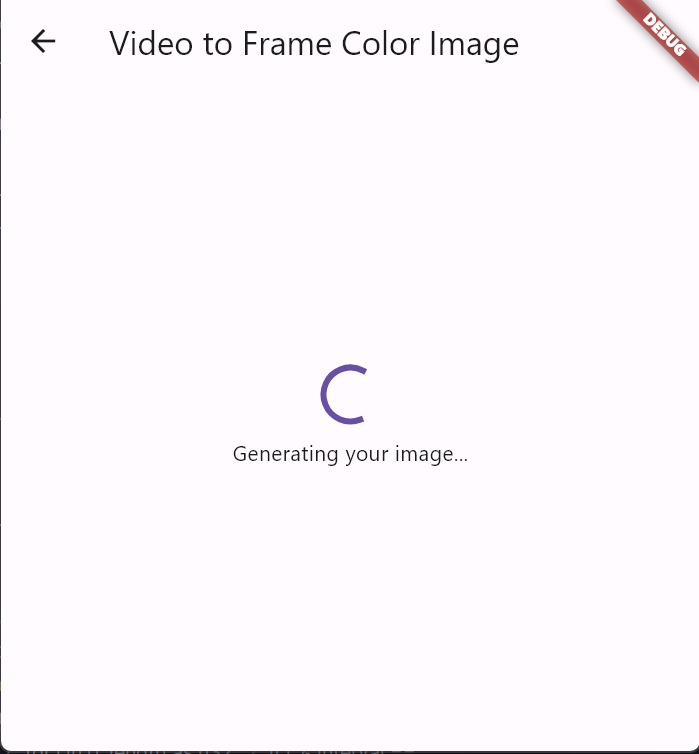
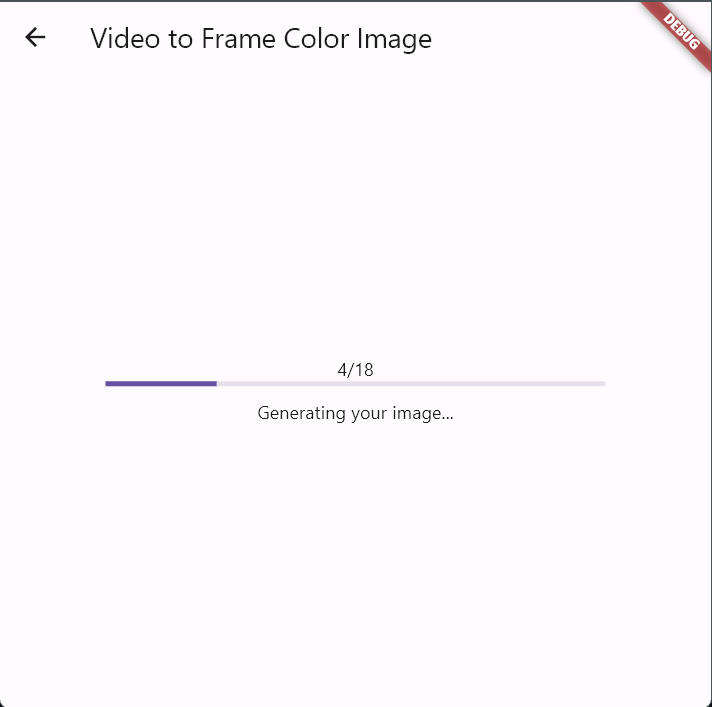
Update screenshots

diff --git a/README.md b/README.md
@@ -42,11 +42,13 @@ as it should even with these. It does make finding issues a little more tricky, 
 
 - Here's an example going through the app to generate an image from a 19 second video:
 <br/>
-<img src="assets/screen_1.png" alt="Home Page" width="250px" />
-<img src="assets/screen_2.png" alt="Video Select" width="250px" />
-<img src="assets/screen_3.png" alt="Settings" width="250px" />
-<img src="assets/screen_4_loading.png" alt="Generating" width="250px" />
-<img src="assets/screen_4_finished.png" alt="Finished" width="250px" />
+<div align="left">
+    <img src="assets/screen_1.png" alt="Home Page" width="250px" />
+    <img src="assets/screen_2.png" alt="Video Select" width="250px" />
+    <img src="assets/screen_3.png" alt="Settings" width="250px" />
+    <img src="assets/screen_4_loading.png" alt="Generating" width="250px" />
+    <img src="assets/screen_4_finished.png" alt="Finished" width="250px" />
+</div>
 
 <br />
 
@@ -63,7 +65,5 @@ finally decided to try and re-create it!
 
 ## Future Plans 
 
-- Use a generator to yield a count each time a new 
-  frame is processed in order to show a progress
-  percentage when generating on the Flutter app 
+- Better styling
 - Parallelization 
